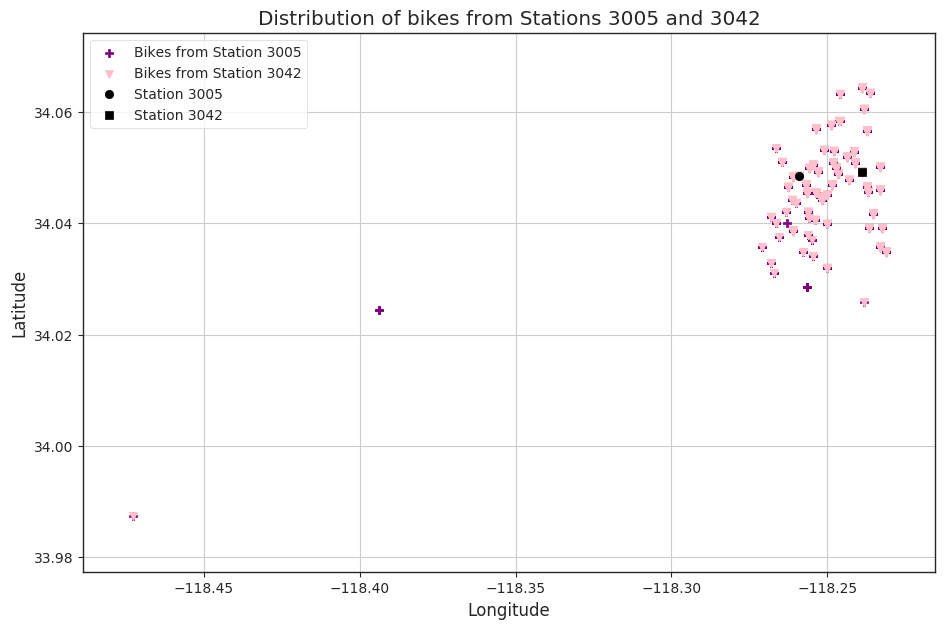
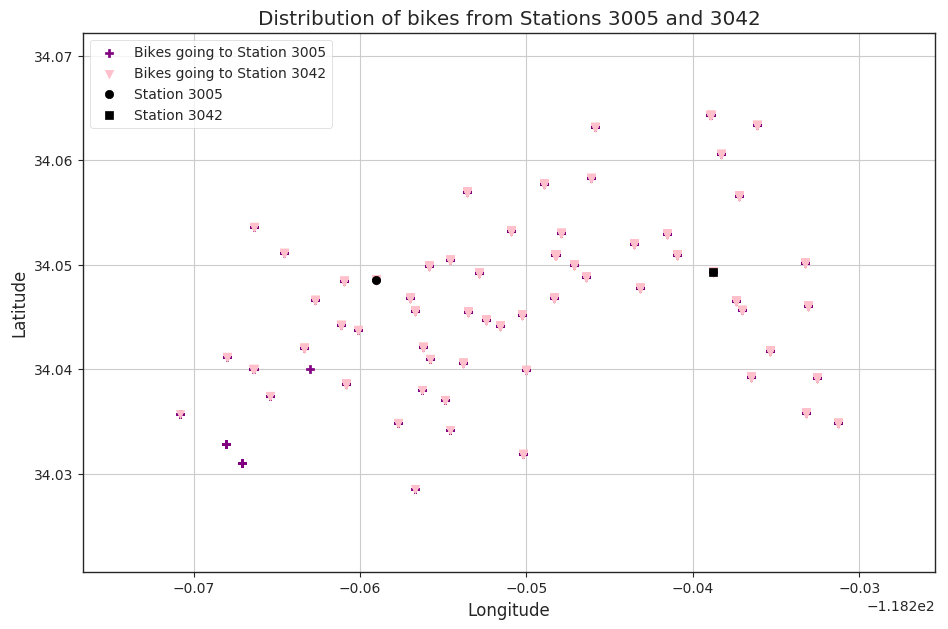
Finished with website, need to deploy

diff --git a/templates/index.html b/templates/index.html
@@ -48,9 +48,6 @@
             <li class="nav-item mx-0 mx-lg-1">
               <a class="nav-link py-3 px-0 px-lg-3 rounded js-scroll-trigger" href="#about">About</a>
             </li>
-            <li class="nav-item mx-0 mx-lg-1">
-              <a class="nav-link py-3 px-0 px-lg-3 rounded js-scroll-trigger" href="#contact">Predict Duration</a>
-            </li>
           </ul>
         </div>
       </div>
@@ -129,7 +126,7 @@
                   <i class="fas fa-search-plus fa-3x"></i>
                 </div>
               </div>
-              <img class="img-fluid" src="/static/graphs/bikeScatter.png" alt="">
+              <img class="img-fluid" src="/static/graphs/bikeHeat.png" alt="">
             </a>
           </div>
         </div>
@@ -142,60 +139,16 @@
         <h2 class="text-center text-uppercase text-white">About</h2>
         <hr class="star-light mb-5">
         <div class="row">
-          <div class="col-lg-4 ml-auto">
-            <p class="lead">text</p>
+          <div class="text-center mt-4">
+              <p class="lead">
+                  Average Distance Travelled: 4.1951 Miles || Average Speed: 14.4353 Miles/Hr
+                  <br> It is quite simple to solve for the average distance and speed of a one-way trip. However, finding the average distance travelled for round-trips proved much more challenging. In order to find the average distance for a one-way trip, the distance between the starting and ending gps coordinates was calculated (in miles) using the Haversine forumla. Then the speed was calculated by dividing the distance by the trip duration. But for round trips, calculating the average distance travelled involved multiplying the duration of the trip by a standard average speed. This standard average speed was calculated by using all trips where the duration was within 3 standard deviations of the average (in order to eliminate outliers). Then I used this average speed and applied it on Round-Trips to find the distance travelled.
+              </p>
           </div>
-          <div class="col-lg-4 mr-auto">
-            <p class="lead">text</p>
-          </div>
-        </div>
-      </div>
-    </section>
-
-    <!-- Contact Section -->
-    <section id="contact">
-      <div class="container">
-        <h2 class="text-center text-uppercase text-secondary mb-0">Contact Me</h2>
-        <hr class="star-dark mb-5">
-        <div class="row">
-          <div class="col-lg-8 mx-auto">
-            <!-- To configure the contact form email address, go to mail/contact_me.php and update the email address in the PHP file on line 19. -->
-            <!-- The form should work on most web servers, but if the form is not working you may need to configure your web server differently. -->
-            <form name="sentMessage" id="contactForm" novalidate="novalidate">
-              <div class="control-group">
-                <div class="form-group floating-label-form-group controls mb-0 pb-2">
-                  <label>Name</label>
-                  <input class="form-control" id="name" type="text" placeholder="Name" required="required" data-validation-required-message="Please enter your name.">
-                  <p class="help-block text-danger"></p>
-                </div>
-              </div>
-              <div class="control-group">
-                <div class="form-group floating-label-form-group controls mb-0 pb-2">
-                  <label>Email Address</label>
-                  <input class="form-control" id="email" type="email" placeholder="Email Address" required="required" data-validation-required-message="Please enter your email address.">
-                  <p class="help-block text-danger"></p>
-                </div>
-              </div>
-              <div class="control-group">
-                <div class="form-group floating-label-form-group controls mb-0 pb-2">
-                  <label>Phone Number</label>
-                  <input class="form-control" id="phone" type="tel" placeholder="Phone Number" required="required" data-validation-required-message="Please enter your phone number.">
-                  <p class="help-block text-danger"></p>
-                </div>
-              </div>
-              <div class="control-group">
-                <div class="form-group floating-label-form-group controls mb-0 pb-2">
-                  <label>Message</label>
-                  <textarea class="form-control" id="message" rows="5" placeholder="Message" required="required" data-validation-required-message="Please enter a message."></textarea>
-                  <p class="help-block text-danger"></p>
-                </div>
-              </div>
-              <br>
-              <div id="success"></div>
-              <div class="form-group">
-                <button type="submit" class="btn btn-primary btn-xl" id="sendMessageButton">Send</button>
-              </div>
-            </form>
+          <div class="text-center mt-4">
+              <p class="lead">
+                  In this web application, Python Flask and Bootstrap frameworks were used to design the front-end and user interface of the website. To perform data anaysis and create visualizations, several python libraries were used. Pandas, Scipy, and Numpy were used to manipulate the data into smaller subsets, MatPlotLib and Seaborn were used to generate visualizations.
+              </p>
           </div>
         </div>
       </div>
@@ -216,9 +169,11 @@
               </ul>
           </div>
           <div class="cold-md-4">
-              <h4 class="text-uppercase mb-4">Tools Used</h4>
-              <p class="lead mb-0"> Flask, BootStrap, Pandas, Numpy, Scipy,
-                  <br>Seborn, MatPlotLib, Sklearn, Heroku
+              <h4 class="text-uppercase mb-4">About Ram</h4>
+              <p class="lead mb-0"> Ram Muthukumaran is an
+                  <br>undergraudate studying
+                  <br>Computer Science and Statistics at the
+                  <br>University of Illinois Urbana-Champaign
           </div>
           <div class="col-md-4 mb-5 mb-lg-0">
               <h4 class="test-uppercase mb-4">Source Code</h4>
@@ -252,13 +207,13 @@
         <div class="container text-center">
           <div class="row">
             <div class="col-lg-8 mx-auto">
-              <h2 class="text-secondary text-uppercase mb-0">Project Name</h2>
+              <h2 class="text-secondary text-uppercase mb-0">Most Popular Starting Stations</h2>
               <hr class="star-dark mb-5">
-              <img class="img-fluid mb-5" src="img/portfolio/cabin.png" alt="">
-              <p class="mb-5">Lorem ipsum dolor sit amet, consectetur adipisicing elit. Mollitia neque assumenda ipsam nihil, molestias magnam, recusandae quos quis inventore quisquam velit asperiores, vitae? Reprehenderit soluta, eos quod consequuntur itaque. Nam.</p>
+              <img class="img-fluid mb-5" src="/static/graphs/popularStartStation.png" alt="">
+              <p class="mb-5">This graph displays the ten most used starting stations. As seen in the bar plots, stations 3069 and 3030 are the most used in terms of starting trips. Over the duration of time the data was collected, approximately 5138 rides started from station 3069 and approximately 5059 rides started from station 3030. Looking at the metro bike share stations data set quickly reveals that these two stations are near very import landmarks. Station 3069 is located at the intersection of Broadway and Third, an area that is close to popular attractions such as the Million Dollar Theater, and also near the center of the city. Station 3030 is located on Main and First. Similar to station 3069, 3030 is also located in a heavily crowded area. Important areas such as Grand Park, Los Angeles Mall, and the LAPD Headquarters are all within one to two blocks of this bike station, and that explains the heavy usage.</p>
               <a class="btn btn-primary btn-lg rounded-pill portfolio-modal-dismiss" href="#">
                 <i class="fa fa-close"></i>
-                Close Project</a>
+                Close</a>
             </div>
           </div>
         </div>
@@ -274,13 +229,13 @@
         <div class="container text-center">
           <div class="row">
             <div class="col-lg-8 mx-auto">
-              <h2 class="text-secondary text-uppercase mb-0">Project Name</h2>
+              <h2 class="text-secondary text-uppercase mb-0">Most Popular Ending Stations</h2>
               <hr class="star-dark mb-5">
-              <img class="img-fluid mb-5" src="img/portfolio/cake.png" alt="">
-              <p class="mb-5">Lorem ipsum dolor sit amet, consectetur adipisicing elit. Mollitia neque assumenda ipsam nihil, molestias magnam, recusandae quos quis inventore quisquam velit asperiores, vitae? Reprehenderit soluta, eos quod consequuntur itaque. Nam.</p>
+              <img class="img-fluid mb-5" src="/static/graphs/popularEndStations.png" alt="">
+              <p class="mb-5">This bar plot displays the ten most used ending stations. Immediately, the most noticable trait in this graph is that station 3005 is clearly the most used ending station. Over the course of time the data was collected, station 3005 was the ending destination for 6262 trips. Which is over 700 more than the next closest ending destination. Once again, the location of this station explains its high usage. Located on Seventh and Flower, station 3005 is a frequent ending destination because it is very close to many restaurants and more importantly, several apartment complexes are within one to two blocks of the station. The fact that station 3005 is not in the heart of the city, in conjuction with the close proximity of several apartment complexes, explains why this station is the most popular end destination.</p>
               <a class="btn btn-primary btn-lg rounded-pill portfolio-modal-dismiss" href="#">
                 <i class="fa fa-close"></i>
-                Close Project</a>
+                Close</a>
             </div>
           </div>
         </div>
@@ -296,13 +251,13 @@
         <div class="container text-center">
           <div class="row">
             <div class="col-lg-8 mx-auto">
-              <h2 class="text-secondary text-uppercase mb-0">Project Name</h2>
+              <h2 class="text-secondary text-uppercase mb-0">Bike Passes and Rider Types</h2>
               <hr class="star-dark mb-5">
-              <img class="img-fluid mb-5" src="img/portfolio/circus.png" alt="">
-              <p class="mb-5">Lorem ipsum dolor sit amet, consectetur adipisicing elit. Mollitia neque assumenda ipsam nihil, molestias magnam, recusandae quos quis inventore quisquam velit asperiores, vitae? Reprehenderit soluta, eos quod consequuntur itaque. Nam.</p>
+              <img class="img-fluid mb-5" src="/static/graphs/passBreakdown.png" alt="">
+              <p class="mb-5">These two plots display the types of bike passes and segments the types of users. The donut plot on the left shows the percentages of each bike pass and the barplot on the right compares frequent and infrequent users. Frequent and Infrequent users were identified by whether or not a specific ride was labelled as a one-time occurrence. Walk-Ups consisted of 31.13% of all total bike rides, whereas monthly passes make up 61.395% of all bike rides. Looking at the graph on the right hand side, out of all the rides collected in the data set, 41224 of them were Walk-Ups, and 91203 rides came from frequent users. In conclusion 68.870% of all the rides came from users who use bike sharing reguarly. There are people who own a monthly pass, a flex pass, or are considered staff. </p>
               <a class="btn btn-primary btn-lg rounded-pill portfolio-modal-dismiss" href="#">
                 <i class="fa fa-close"></i>
-                Close Project</a>
+                Close</a>
             </div>
           </div>
         </div>
@@ -318,13 +273,13 @@
         <div class="container text-center">
           <div class="row">
             <div class="col-lg-8 mx-auto">
-              <h2 class="text-secondary text-uppercase mb-0">Project Name</h2>
+              <h2 class="text-secondary text-uppercase mb-0">Monthly Affects on Bike Sharing</h2>
               <hr class="star-dark mb-5">
-              <img class="img-fluid mb-5" src="img/portfolio/game.png" alt="">
-              <p class="mb-5">Lorem ipsum dolor sit amet, consectetur adipisicing elit. Mollitia neque assumenda ipsam nihil, molestias magnam, recusandae quos quis inventore quisquam velit asperiores, vitae? Reprehenderit soluta, eos quod consequuntur itaque. Nam.</p>
+              <img class="img-fluid mb-5" src="/static/graphs/seasonEffects.png" alt="">
+              <p class="mb-5">This line graph shows the change in the total rides for each month. The data set begins on July 7th, 2016 and ends on March 31st, 2017. In this plot month 1 is July, and month 9 is March. By analyzing the graph, it is clear that August had the most rides, but after that, the lines start to decrease. This can be explained by the colder weather in winter, which causes people to not bike as much and either drive or take public transit instead. However, at the tail end of the graph, a jump can be seen. This is expected because during the arrival of spring, citizens start going outside more and are more likely to use bike sharing. Interestingly, despite the total number of rides changing every month, the proportion of frequent and infrequent users keeps steady throughout most of the year. This absence of variance could be potentially explained by the lack of data for the summer months. During summer, many tourists would probably use bike sharing, and would most likely be considered Walk-Up occurrences, which would have increased the number of commuters who don't regularly use bike sharing.</p>
               <a class="btn btn-primary btn-lg rounded-pill portfolio-modal-dismiss" href="#">
                 <i class="fa fa-close"></i>
-                Close Project</a>
+                Close</a>
             </div>
           </div>
         </div>
@@ -340,13 +295,13 @@
         <div class="container text-center">
           <div class="row">
             <div class="col-lg-8 mx-auto">
-              <h2 class="text-secondary text-uppercase mb-0">Project Name</h2>
+              <h2 class="text-secondary text-uppercase mb-0">Displacement of Bikes</h2>
               <hr class="star-dark mb-5">
-              <img class="img-fluid mb-5" src="img/portfolio/safe.png" alt="">
-              <p class="mb-5">Lorem ipsum dolor sit amet, consectetur adipisicing elit. Mollitia neque assumenda ipsam nihil, molestias magnam, recusandae quos quis inventore quisquam velit asperiores, vitae? Reprehenderit soluta, eos quod consequuntur itaque. Nam.</p>
+              <img class="img-fluid mb-5" src="/static/graphs/netChange.png" alt="">
+              <p class="mb-5">This graph displays the stations with the most displaced bikes per day. This metric was calculated by finding the differene between the amount of time a station was selected as the start and the amount of time a station was the end of a trip, then dividing that difference by the total number of days in the dataset. After performing this calculation and displaying the results, it is clear that stations 3005 and stations 3042 usually have an excess of bikes at the end of the day. Station 3005 has approximately 5.15 more bikes at it's station at the end of the day than at the beginning, and station 3042 has about 4.78 more bikes. Based on earlier visualizations, it's of no surprise that station 3005 gains more bikes. But why would station 3042 gain more bikes? Station 3042 is located on First and Central, which is, like station 3005, not located in the center of the city. This area has many restaurants and attractions to see however, and that could possibly explain why there is a net gain of bikes on average per day. In order to make sure travel patterns are matched, bikes should be moved in the late night, or early morning, back to areas where they are very heavily used. Based on previous visualizations stations 3069 and 3030 are solid choices because those stations are where bikers are most likely to start their trips from. </p>
               <a class="btn btn-primary btn-lg rounded-pill portfolio-modal-dismiss" href="#">
                 <i class="fa fa-close"></i>
-                Close Project</a>
+                Close</a>
             </div>
           </div>
         </div>
@@ -362,13 +317,13 @@
         <div class="container text-center">
           <div class="row">
             <div class="col-lg-8 mx-auto">
-              <h2 class="text-secondary text-uppercase mb-0">Project Name</h2>
+              <h2 class="text-secondary text-uppercase mb-0">Bike Distributions</h2>
               <hr class="star-dark mb-5">
-              <img class="img-fluid mb-5" src="img/portfolio/submarine.png" alt="">
-              <p class="mb-5">Lorem ipsum dolor sit amet, consectetur adipisicing elit. Mollitia neque assumenda ipsam nihil, molestias magnam, recusandae quos quis inventore quisquam velit asperiores, vitae? Reprehenderit soluta, eos quod consequuntur itaque. Nam.</p>
+              <img class="img-fluid mb-5" src="/static/graphs/bikeHeat.png" alt="">
+              <p class="mb-5">In order to further explore the data with regards to bike displacement, this heat plot shows where bikes at stations 3005 and 3042 (the stations with the most gained bikes per day) come from. As seen in these heatplots, trips that end at station 3005 usually start from around (34.045,-118.20525). Trips that end at station 3042 start from around (34.0525, -118.2045). Building off the previous assesement of the net change of bikes, excess bikes at stations 3005 and 3042 could be moved back to stations near the two coordinates mentioned before in order to accomodate the trends of riders. </p>
               <a class="btn btn-primary btn-lg rounded-pill portfolio-modal-dismiss" href="#">
                 <i class="fa fa-close"></i>
-                Close Project</a>
+                Close</a>
             </div>
           </div>
         </div>

diff --git a/graphs.py b/graphs.py
@@ -270,12 +270,12 @@ def largest_net_change():
                 endUses[i] += 1
     netUses = startUses - endUses
     topTenInds = netUses.argsort()[:10] # top 10 biggest negative net differences
-    topLossStations = np.zeros(len(topTenInds))
-    netLosses = np.zeros(len(topTenInds))
+    topGainStations = np.zeros(len(topTenInds))
+    netGains = np.zeros(len(topTenInds))
     for i in range(len(topTenInds)):
-        topLossStations[i] = startStationsSet[topTenInds[i]]
-        netLosses[i] = netUses[topTenInds[i]]
-    netLosses = abs(netLosses)
+        topGainStations[i] = startStationsSet[topTenInds[i]]
+        netGains[i] = netUses[topTenInds[i]]
+    netGains = abs(netGains)
 
     # calculate the duration of the data collection to find the avgerage loss per day
     dates = dataFrame["Start Time"]
@@ -284,64 +284,81 @@ def largest_net_change():
     d1 = filter_time(firstDay)
     d2 = filter_time(lastDay)
     totalDays = abs((d2-d1).days)
-    netLosses /= totalDays
+    netGains /= totalDays
+    ##print(netGains)
     plt.figure(figsize=(11,7))
+    #plt.subplot(121)
     sns.set_style("ticks")
-    sns.barplot(x=topLossStations, y=netLosses)
+    sns.barplot(x=topGainStations, y=netGains)
     plt.xlabel("Station ID")
-    plt.ylabel("Average Bikes Moved per Day")
+    plt.ylabel("Average Bikes Gained per Day")
     plt.tight_layout()
-    plt.title("Stations with the Most Displaced Bikes per Day")
+    plt.title("Stations with the Most Gained Bikes per Day")
     plt.savefig("static/graphs/netChange.png", bbox_inches="tight", format="png")
 
-    # looking specifically at station 3005 
-    colsOfInterest2 = ["Starting Station ID", "Ending Station Latitude", "Ending Station Longitude", "Trip Route Category"]
+
+    # looking specifically at station 3005 & 3042
+    colsOfInterest2 = ["Starting Station Latitude", "Starting Station Longitude", "Ending Station ID", "Trip Route Category"]
     dataFrame = dataFrame[colsOfInterest2].astype(str)
     oneWays = dataFrame.loc[dataFrame["Trip Route Category"] == "One Way"]
-    oneWays3005 = dataFrame.loc[dataFrame["Starting Station ID"] == "3005.0"]
-    oneWays3042 = dataFrame.loc[dataFrame["Starting Station ID"] == "3042.0"]
-    oneWayDispCoords3005 = oneWays3005[["Ending Station Latitude", "Ending Station Longitude"]]
-    oneWayDispCoords3042 = oneWays3042[["Ending Station Latitude", "Ending Station Longitude"]]
+    oneWays3005 = dataFrame.loc[dataFrame["Ending Station ID"] == "3005.0"]
+    oneWays3042 = dataFrame.loc[dataFrame["Ending Station ID"] == "3042.0"]
+    oneWayDispCoords3005 = oneWays3005[["Starting Station Latitude", "Starting Station Longitude"]]
+    oneWayDispCoords3042 = oneWays3042[["Starting Station Latitude", "Starting Station Longitude"]]
     lats3005 = []
     lons3005 = []
     lats3042 = []
     lons3042 = []
     for row in oneWayDispCoords3005.itertuples():
-        if isnan(float(row[1])) or isnan(float(row[2])):
+        if float(row[1])==0  or float(row[2])==0:
             continue
         else:
             lats3005.append((float(row[1])))
             lons3005.append((float(row[2])))
+
     for row in oneWayDispCoords3042.itertuples():
-        if float(row[1]) == 0 or float(row[2]) == 0:
+        if float(row[1])==0 or float(row[2])==0:
             continue
         else:
             lats3042.append((float(row[1])))
             lons3042.append((float(row[2])))
 
-    graph = plt.figure(figsize=(11,7)).add_subplot(111)
-    graph.scatter(lons3005, lats3005, marker= 'P', c="purple", label="Bikes from Station 3005")
-    graph.scatter(lons3042, lats3042, marker='v', c="pink", label="Bikes from Station 3042")
-    graph.scatter(-118.25905, 34.0485497,c= "black", marker="o", label="Station 3005")
-    graph.scatter(-118.23881, 34.0493011,c="black",  marker="s", label="Station 3042")
-    plt.title("Distribution of bikes from Stations 3005 and 3042")
+    plt.figure(figsize=(14,7))
+    plt.subplot(121)
+    plt.hexbin(lons3005, lats3005, gridsize=(15,15))
+    plt.title("Distribution of bikes from Station 3005")
     plt.xlabel("Longitude")
     plt.ylabel("Latitude")
-    plt.legend()
-    plt.grid()
-    plt.savefig("static/graphs/bikeScatter.png", bbox_inches="tight", format="png")
+
+    plt.subplot(122)
+    plt.hexbin(lons3042, lats3042, gridsize=(15,15))
+    plt.title("Distribution of bikes from Station 3042")
+    plt.xlabel("Longitude")
+    plt.ylabel("Latitude")
+    plt.savefig("static/graphs/bikeHeat.png", bbox_inches="tight", format="png")
+
+    #graph = plt.figure(figsize=(11,7)).add_subplot(111)
+    #graph.scatter(lons3005, lats3005, marker= 'P', c="purple", label="Bikes going to Station 3005")
+    #graph.scatter(lons3042, lats3042, marker='v', c="pink", label="Bikes going to Station 3042")
+    #graph.scatter(-118.25905, 34.0485497,c= "black", marker="o", label="Station 3005")
+    #graph.scatter(-118.23881, 34.0493011,c="black",  marker="s", label="Station 3042")
+    #plt.title("Distribution of bikes from Stations 3005 and 3042")
+    #plt.xlabel("Longitude")
+    #plt.ylabel("Latitude")
+    #plt.legend()
+    #plt.grid()
+    #plt.savefig("static/graphs/bikeScatter.png", bbox_inches="tight", format="png")
 
 def generate_graphs():
-    #popular_stations()
-    #print("Generated popular station graphs")
-    #bike_sharing_breakdown()
-    #print("Generated bike sharing breakdown graphs")
-    #avg_dist_trav();
-    #print("Found average distance travelled")
-    #seasonal_effects()
-    #print("Discovered seasonal effects")
+    popular_stations()
+    print("Generated popular station graphs")
+    bike_sharing_breakdown()
+    print("Generated bike sharing breakdown graphs")
+    print("Found average distance travelled & average biker speed:" +  str(avg_dist_trav()))
+    seasonal_effects()
+    print("Discovered seasonal effects")
     largest_net_change()
+    print("Found net changes of bikes")
 
 if __name__ == '__main__':
     generate_graphs()
-    #print(plt.style.available)
